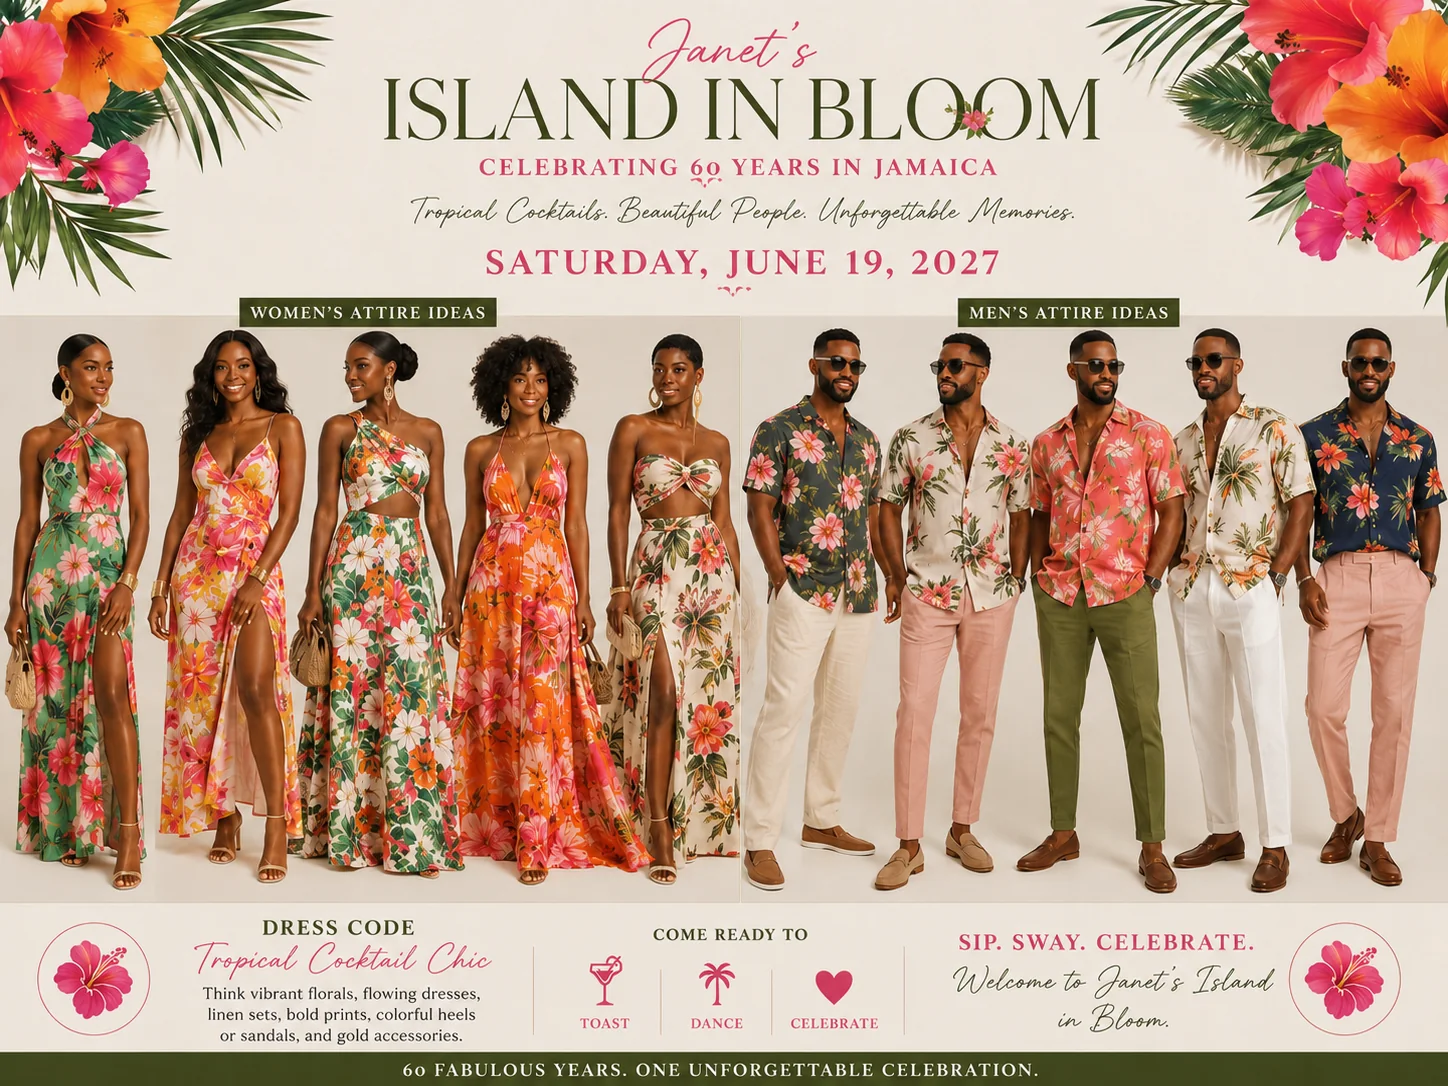
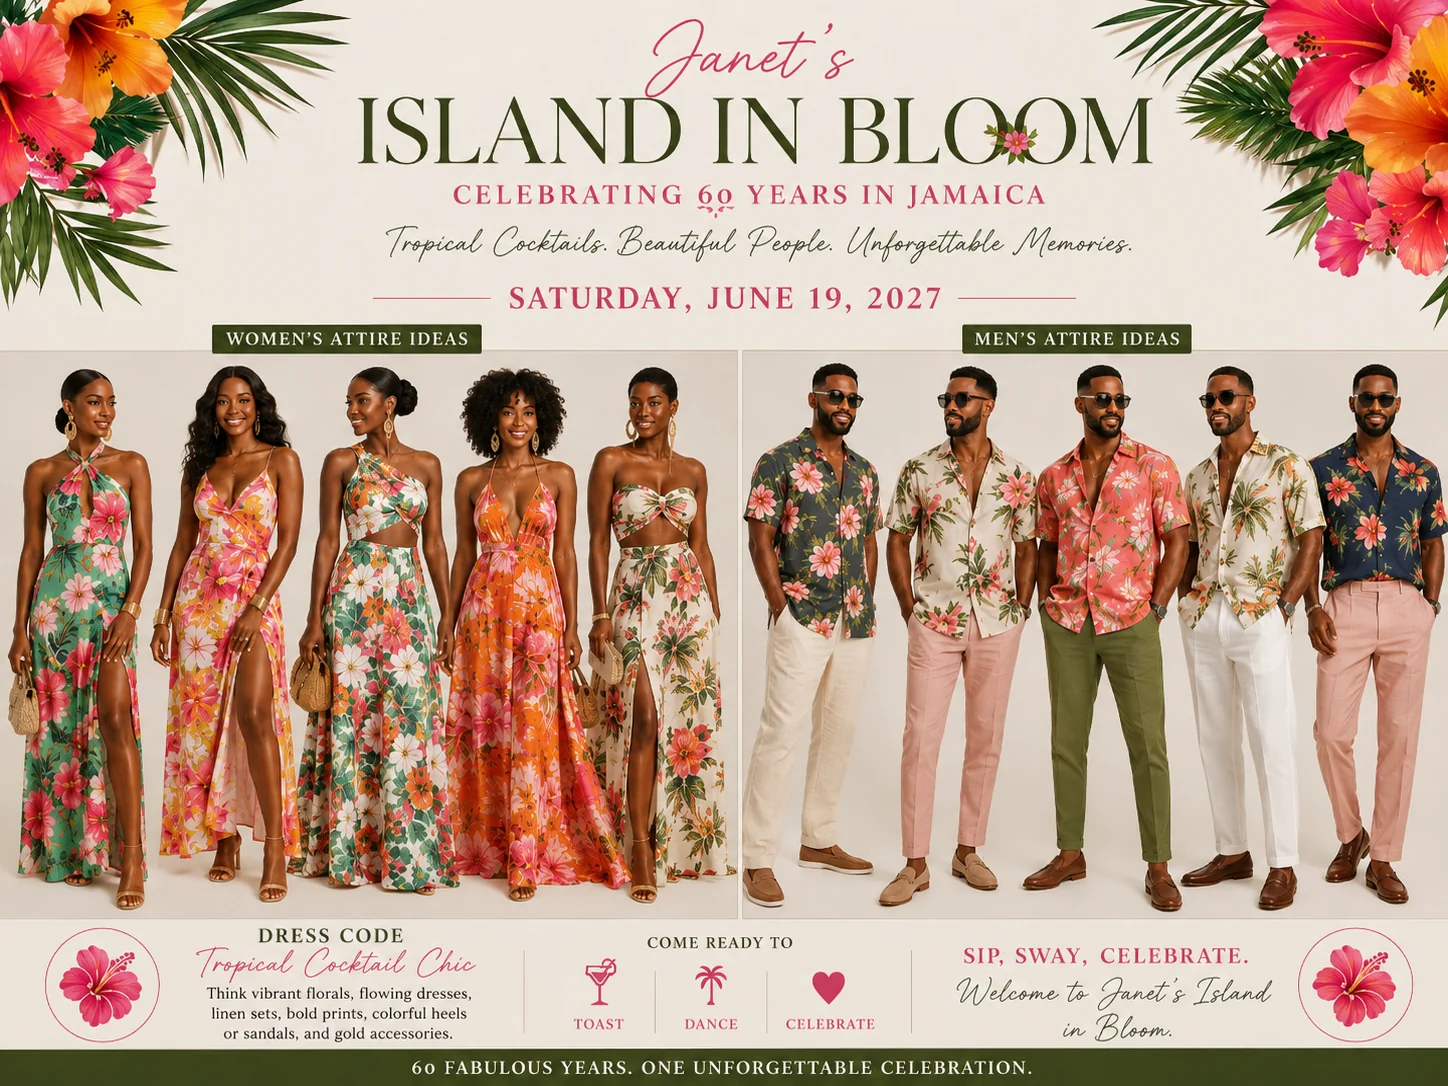
fix: refresh menu and event content
Replace the menu disclosure with a reliable button control, remove resort address and Welcome date sections, and update the six attire panels with the supplied artwork.

diff --git a/tests/e2e/site.spec.ts b/tests/e2e/site.spec.ts
@@ -61,13 +61,14 @@ test("renders all four navigation tabs and official weekend events", async ({
   }
 
   await page.goto("./");
-  await expect(page.locator("#itinerary > div > ol > li")).toHaveCount(7);
   await expect(
-    page.getByRole("heading", { name: "Janet’s Island in Bloom" }),
-  ).toBeVisible();
+    page.getByRole("heading", { name: "Celebration dates" }),
+  ).toHaveCount(0);
+  await expect(page.locator("#itinerary")).toHaveCount(0);
 
   await page.goto("./what-to-wear/");
   await expect(page.getByRole("tab")).toHaveCount(0);
+  await expect(page.locator(".attire-hover-gallery img")).toHaveCount(6);
   const fridayDay = page.getByRole("article", {
     name: /Friday, June 18, Daytime/i,
   });
@@ -101,12 +102,16 @@ test("renders all four navigation tabs and official weekend events", async ({
     name: /Thursday, June 17, Arrival day/i,
   });
   await thursday.focus();
-  await expect(page.getByText("Resort chic", { exact: true })).toBeVisible();
+  await expect(
+    page.getByRole("img", { name: /Arrival Day attire board/i }),
+  ).toBeVisible();
   const sunday = page.getByRole("article", {
     name: /Sunday, June 20, Daytime/i,
   });
   await sunday.focus();
-  await expect(page.getByText("Resort wear", { exact: true })).toBeVisible();
+  await expect(
+    page.getByRole("img", { name: /Free Day to Explore board/i }),
+  ).toBeVisible();
 
   const dimensions = await page.evaluate(() => ({
     clientWidth: document.documentElement.clientWidth,
@@ -151,6 +156,8 @@ test("Resort page keeps the hotel link and shows the supplied gallery", async ({
   await expect(
     page.getByRole("heading", { name: "Your island escape" }),
   ).toHaveCount(0);
+  await expect(page.getByText("P.O. Box 999")).toHaveCount(0);
+  await expect(page.getByText("Rose Hall Road")).toHaveCount(0);
   await expect(
     page.getByRole("link", { name: "Explore Dreams Rose Hall Resort & Spa" }),
   ).toBeVisible();

diff --git a/src/styles/globals.css b/src/styles/globals.css
@@ -250,14 +250,6 @@
   background: rgb(255 255 255 / 0.1);
 }
 
-[data-site-menu] > summary::-webkit-details-marker {
-  display: none;
-}
-
-[data-site-menu] > summary::marker {
-  content: "";
-}
-
 .luxury-outline-button {
   border: 1px solid rgb(255 255 255 / 0.5);
   border-radius: 999px;
@@ -556,46 +548,6 @@
   transform: translateY(0);
 }
 
-.attire-detail-card {
-  display: grid;
-  min-height: 24rem;
-  grid-template-columns: minmax(0, 1fr) auto;
-  align-items: end;
-  gap: 3rem;
-  padding: clamp(2rem, 7vw, 7rem);
-  background:
-    radial-gradient(circle at 82% 18%, rgb(201 153 79 / 0.3), transparent 25%),
-    linear-gradient(145deg, #f2eee5, #dfd3c2);
-  box-shadow: 0 2rem 5rem rgb(6 45 39 / 0.14);
-}
-
-.attire-detail-card > div:first-child > p:first-child {
-  font-family: var(--font-display);
-  font-size: clamp(3.5rem, 8vw, 8rem);
-  line-height: 0.88;
-  letter-spacing: -0.045em;
-}
-
-.attire-detail-card > div:first-child > p:last-child {
-  max-width: 44rem;
-  margin-top: 2rem;
-  color: rgb(18 61 53 / 0.82);
-  font-size: clamp(1rem, 2vw, 1.3rem);
-  line-height: 1.8;
-}
-
-.attire-detail-palette {
-  display: flex;
-  gap: 0.65rem;
-}
-
-.attire-detail-palette span {
-  width: 2.5rem;
-  aspect-ratio: 1;
-  border: 1px solid rgb(18 61 53 / 0.25);
-  border-radius: 999px;
-}
-
 @media (hover: none), (max-width: 767px) {
   .attire-hover-gallery {
     padding-top: 3rem;
@@ -617,8 +569,4 @@
     transform: none;
   }
 
-  .attire-detail-card {
-    min-height: 20rem;
-    grid-template-columns: 1fr;
-  }
 }

diff --git a/src/content/tabs/welcome.md b/src/content/tabs/welcome.md
@@ -21,30 +21,6 @@ who have helped make her journey so special.
 We have planned an unforgettable weekend filled with beautiful moments,
 fabulous events, island sunshine, and plenty of time to simply enjoy Jamaica.
 
-## Celebration dates
-
-### Thursday, June 17, 2027 — Arrival & travel day
-
-Arrive, get settled, explore the resort, and get ready for an amazing weekend.
-
-### Friday, June 18, 2027 — Birthday weekend events
-
-Poolside shades of blue followed by an unforgettable all-white island night.
-
-### Saturday, June 19, 2027 — Janet’s 60th birthday celebration
-
-Animal-print poolside style by day and Janet’s Island in Bloom celebration by
-night.
-
-### Sunday, June 20, 2027 — Your day in paradise
-
-No official events are planned. Sleep in, visit the spa, enjoy the beach,
-explore Jamaica, play a round of golf, or spend the day by the pool.
-
-### Monday, June 21, 2027 — Official departure day
-
-Until next time, Jamaica!
-
 Want even more Jamaica? Guests are welcome to **arrive early or extend their
 vacation** through our travel agent. Current group pricing is available for
 travel dates **June 16–22, 2027**, subject to availability and the terms of the
@@ -52,4 +28,3 @@ group block.
 
 We hope you’ll join us as we celebrate **60 years of an amazing woman and the
 beginning of an even more incredible chapter.**
-

diff --git a/src/content/tabs/resort.md b/src/content/tabs/resort.md
@@ -15,11 +15,6 @@ Welcome to paradise.
 Our birthday celebration will take place at the beautiful **Dreams Rose Hall
 Resort & Spa**, an all-inclusive beachfront resort in Montego Bay, Jamaica.
 
-**Dreams Rose Hall Resort & Spa**  
-P.O. Box 999  
-Rose Hall Road  
-Montego Bay, Jamaica, West Indies
-
 **Distance from Sangster International Airport (MBJ):** Approximately 4.5 miles
 / 20-minute drive  
 **Distance from Downtown Montego Bay:** Approximately 25 minutes
